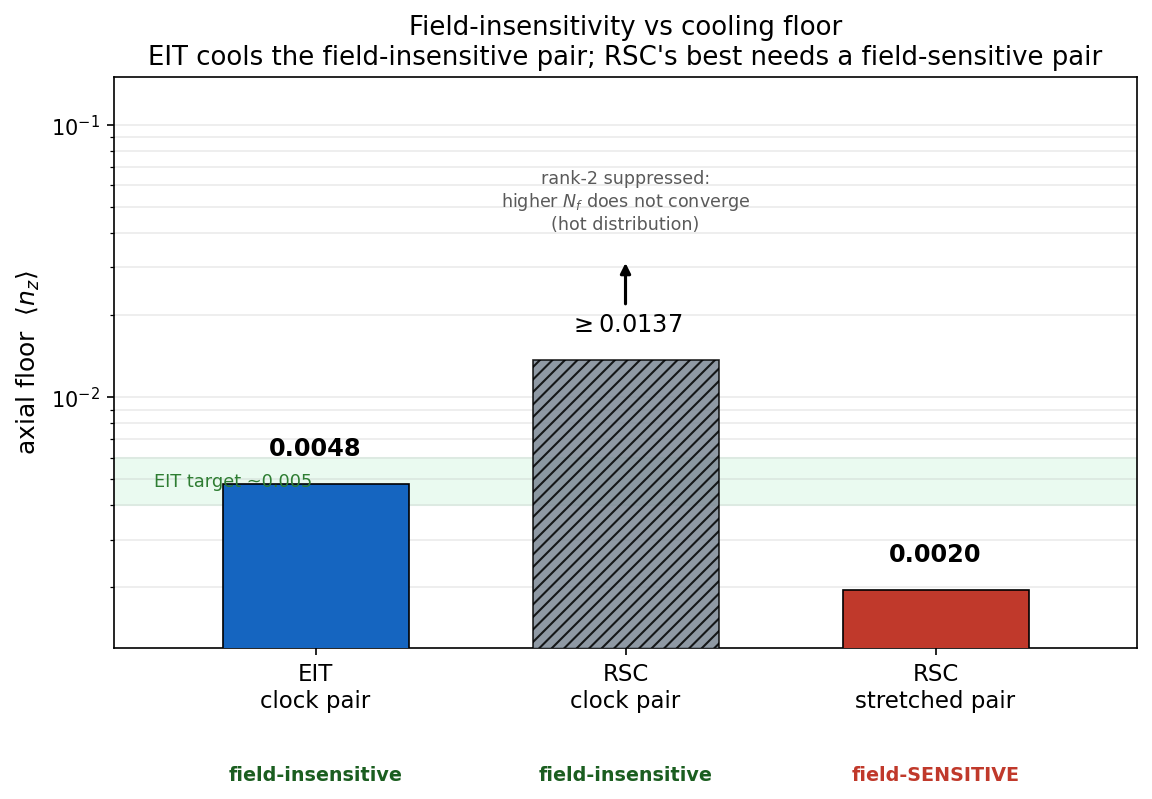
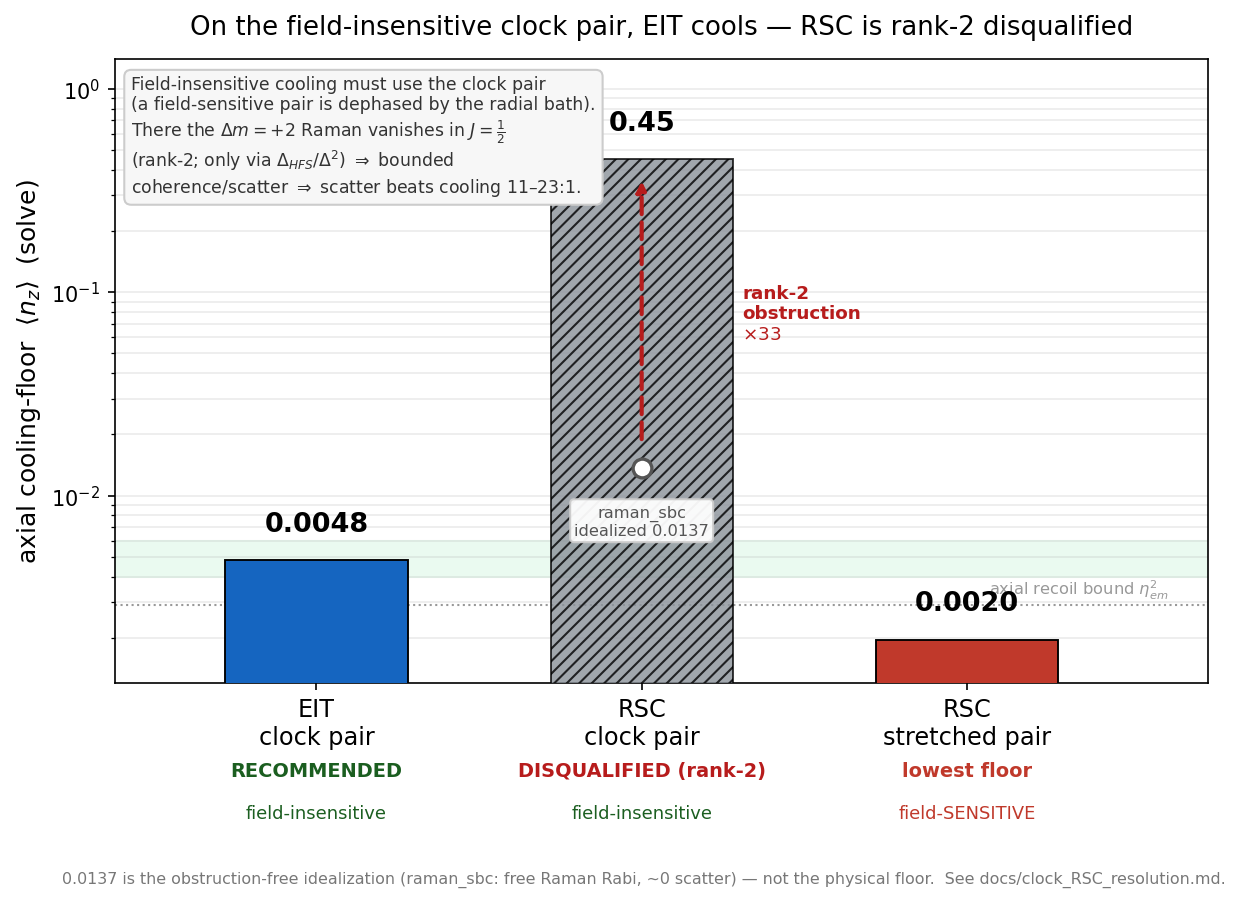
Phase 1: resolve clock-RSC floor (0.45 vs 0.0137) + correct its figure -- unblocks Paper T
The 0.45-vs-0.0137 disagreement is not a contradiction. raman_sbc('clock') takes
the Raman Rabi as a free knob and has no off-resonant Raman-beam scatter (verified
this session: floor ~0.0134 with R_scatter~0 across OmR=0.005-0.04), so its 0.0137
is an OBSTRUCTION-FREE idealization, not the clock-RSC floor. The physical floor is
~0.45, set by the rank-2 obstruction: the Dm=+2 clock Raman's rank-2 electronic
operator vanishes in J=1/2 [triangle(1/2,2,1/2) fails, audit_C_rank2.py], the
coupling runs only via excited I.J (prop Delta_HFS/Delta^2), and the mirror-ladder
geometry forces one beam onto the dark state -> bounded coherence-per-scatter FoM
(~4, detuning- & field-proof) -> scatter beats cooling 11-23:1 -> 0.45, robust to
x3 scatter (needs x170 to recover) => DISQUALIFIED.

- add docs/clock_RSC_resolution.md (permanent write-up)
- SSOT: clock-RSC OPEN -> DISQUALIFIED (rank-2); 0.0137 relabeled obstruction-free
- fig_rsc_vs_eit.py: rewritten to plot ~0.45 (DISQUALIFIED) with the 0.0137
  idealization marker + the rank-2 lift; all values imported from the SSOT

Paper T (rank-2-obstruction note) UNBLOCKED: rests on the selection-rule null +
coherence-per-scatter FoM, not on raman_sbc.

diff --git a/figures/fig_rsc_vs_eit.py b/figures/fig_rsc_vs_eit.py
@@ -1,73 +1,107 @@
 """
-fig_rsc_vs_eit.py  --  Paper T headline: the field-insensitivity / cooling-floor
-trade-off.
+fig_rsc_vs_eit.py  --  Paper T headline: on the field-insensitive clock pair,
+EIT cools but RSC is rank-2 DISQUALIFIED.
 
-Three floors, each computed from the project engines:
-  * EIT, clock pair  |1,-1>/|2,+1>  (field-insensitive)  -> 0.0048   [tagged_solver]
-  * RSC, clock pair  |1,-1>/|2,+1>  (field-insensitive)  -> >=0.0137  [raman_sbc, Nf=10
-        LOWER BOUND: higher Fock cutoff does not converge within budget -> the
-        steady state is hot/spread; the field-insensitive Dm=2 Raman is rank-2
-        suppressed, so RSC barely cools this pair]
-  * RSC, stretched pair |2,+2>/|2,+1> (FIELD-SENSITIVE) -> 0.00196   [raman_sbc]
+All floors are imported from the SSOT (src/operating_point.py) so the figure
+cannot drift from the canonical numbers:
+  * EIT,  clock pair |1,-1>/|2,+1>  (field-insensitive)  -> 0.0048  [solve, dual-end]
+  * RSC,  clock pair |1,-1>/|2,+1>  (field-insensitive)  -> ~0.45   DISQUALIFIED
+        by the rank-2 obstruction: the Dm=+2 Raman vanishes in J=1/2 (rank-2
+        electronic null; runs only via excited I.J ~ Delta_HFS/Delta^2), and the
+        mirror-ladder geometry forces one beam onto the dark state -> bounded
+        coherence-per-scatter (~4) -> off-resonant scatter beats the slow LD
+        cooling 11-23:1.  The 0.0137 from raman_sbc is the OBSTRUCTION-FREE
+        idealization (free Raman Rabi, ~0 scatter), NOT the physical floor.
+        See docs/clock_RSC_resolution.md.
+  * RSC,  stretched pair |2,+2>/|2,+1> (FIELD-SENSITIVE) -> 0.00196
 
-Message: you can have field-insensitivity (EIT, ~0.005) OR RSC's best floor
-(~0.002) -- but RSC's best needs a field-SENSITIVE pair that the inhomogeneous
-radial bath dephases.  On the field-insensitive pair the experiment actually
-needs, EIT beats RSC.
-
-NOTE: the "0.45" clock-RSC floor carried in earlier notes was NOT reproduced by
-the engine and is treated as unverified; the defensible claim is comparative.
+Message: the experiment needs a FIELD-INSENSITIVE pair (the radial bath dephases
+a field-sensitive one).  On that pair EIT reaches ~0.005 while RSC is rank-2
+disqualified at ~0.45.  RSC's low floor (0.00196) exists only on a field-SENSITIVE
+pair.  So for field-insensitive cooling the answer is EIT.
 """
+import os, sys
 import numpy as np
 import matplotlib
 matplotlib.use("Agg")
 import matplotlib.pyplot as plt
+sys.path.insert(0, os.path.join(os.path.dirname(os.path.abspath(__file__)), "..", "src"))
+import operating_point as op
 
-# computed floors (see module docstring for provenance)
+EIT_CLOCK   = op.FLOOR.solve_dual_end       # 0.0048
+RSC_CLOCK   = op.RSC_CLOCK_FLOOR            # 0.45   (rank-2 limited)
+RSC_IDEAL   = op.RSC_CLOCK_IDEALIZED        # 0.0137 (obstruction-free idealization)
+RSC_STRETCH = op.RSC_STRETCHED             # 0.00196
+RECOIL      = op.FLOOR.axial_recoil_bound   # ~0.003
+lift        = round(RSC_CLOCK / RSC_IDEAL)  # ~33x
+
 labels = ["EIT\nclock pair", "RSC\nclock pair", "RSC\nstretched pair"]
-vals   = [0.0048, 0.0137, 0.00196]
-lb     = [False,  True,    False]          # clock-RSC is a lower bound
+vals   = [EIT_CLOCK, RSC_CLOCK, RSC_STRETCH]
 field  = ["field-insensitive", "field-insensitive", "field-SENSITIVE"]
-colors = ["#1565c0", "#7b8794", "#c0392b"]
+status = ["RECOMMENDED", "DISQUALIFIED (rank-2)", "lowest floor"]
+colors = ["#1565c0", "#8a9199", "#c0392b"]
 
 x = np.arange(3)
-fig, ax = plt.subplots(figsize=(8.8, 5.6))
+fig, ax = plt.subplots(figsize=(9.4, 6.3))
 ax.set_yscale("log")
-bars = ax.bar(x, vals, width=0.60, color=colors, edgecolor="black", linewidth=0.8,
-              zorder=3)
-bars[1].set_hatch("////"); bars[1].set_alpha(0.85)
+ax.set_ylim(1.2e-3, 1.4)
 
+bars = ax.bar(x, vals, width=0.56, color=colors, edgecolor="black", linewidth=0.9, zorder=3)
+bars[1].set_hatch("////"); bars[1].set_alpha(0.80)
+
+# reference lines
+ax.axhline(RECOIL, ls=":", color="#999", lw=1.0, zorder=1)
+ax.text(2.62, RECOIL * 1.04, r"axial recoil bound $\eta_{em}^2$", fontsize=7.8,
+        color="#999", va="bottom", ha="right")
 ax.axhspan(0.004, 0.006, color="#eafaf0", zorder=0)
-ax.text(-0.52, 0.0049, "EIT target ~0.005", fontsize=8.5, color="#2e7d32",
-        ha="left", va="center")
 
-for xi, v, is_lb in zip(x, vals, lb):
-    txt = (r"$\geq%.4f$" % v) if is_lb else ("%.4f" % v)
-    ax.text(xi, v * 1.22, txt, ha="center", va="bottom", fontsize=11.5,
-            fontweight="bold")
-    if is_lb:
-        ax.annotate("", xy=(xi, v * 2.35), xytext=(xi, v * 1.55),
-                    arrowprops=dict(arrowstyle="-|>", color="black", lw=1.5))
+def fmt(v):
+    return ("%.4f" % v) if v < 0.02 else ("%.2f" % v)
+for xi, v in zip(x, vals):
+    ax.text(xi, v * 1.30, fmt(v), ha="center", va="bottom", fontsize=13, fontweight="bold")
 
-# field-sensitivity as a colored sub-row BELOW the x tick labels
+# status + field-sensitivity sub-rows below the tick labels
+for xi, st in zip(x, status):
+    col = "#1b5e20" if st.startswith("REC") else ("#b71c1c" if "rank" in st else "#c0392b")
+    ax.text(xi, -0.125, st, transform=ax.get_xaxis_transform(), ha="center", va="top",
+            fontsize=9.3, fontweight="bold", color=col)
 for xi, fl in zip(x, field):
-    ax.text(xi, -0.205, fl, transform=ax.get_xaxis_transform(), ha="center",
-            va="top", fontsize=9.2,
-            color=("#c0392b" if "SENS" in fl else "#1b5e20"),
-            fontweight="bold")
+    ax.text(xi, -0.195, fl, transform=ax.get_xaxis_transform(), ha="center", va="top",
+            fontsize=8.6, color=("#c0392b" if "SENS" in fl else "#1b5e20"))
 
-ax.text(1, 0.040,
-        "rank-2 suppressed:\nhigher $N_f$ does not converge\n(hot distribution)",
-        ha="center", va="bottom", fontsize=8.4, color="#5a5a5a")
+# clock-RSC: where the obstruction-free engine put it, and the rank-2 lift
+ax.plot([1], [RSC_IDEAL], marker="o", ms=9, mfc="white", mec="#555", mew=1.6, zorder=5)
+ax.text(1.0, RSC_IDEAL * 0.66, "raman_sbc\nidealized %.4f" % RSC_IDEAL,
+        ha="center", va="top", fontsize=7.8, color="#555", zorder=6,
+        bbox=dict(boxstyle="round,pad=0.25", fc="white", ec="#cccccc", alpha=0.95))
+ax.annotate("", xy=(1, RSC_CLOCK * 0.82), xytext=(1, RSC_IDEAL * 1.32),
+            arrowprops=dict(arrowstyle="-|>", color="#b71c1c", lw=2.0, ls=(0, (4, 2))))
+ax.text(1.31, np.sqrt(RSC_IDEAL * RSC_CLOCK), "rank-2\nobstruction\n" + r"$\times%d$" % lift,
+        ha="left", va="center", fontsize=8.8, color="#b71c1c", fontweight="bold")
 
-ax.set_xticks(x); ax.set_xticklabels(labels, fontsize=11)
-ax.set_xlim(-0.65, 2.65)
-ax.set_ylim(1.2e-3, 1.5e-1)
-ax.set_ylabel(r"axial floor  $\langle n_z\rangle$", fontsize=12)
-ax.set_title("Field-insensitivity vs cooling floor\n"
-             "EIT cools the field-insensitive pair; RSC's best needs a "
-             "field-sensitive pair", fontsize=12.5)
+# mechanism box (upper-left; the EIT bar is short, so no collision)
+ax.text(0.015, 0.975,
+        "Field-insensitive cooling must use the clock pair\n"
+        "(a field-sensitive pair is dephased by the radial bath).\n"
+        r"There the $\Delta m{=}{+}2$ Raman vanishes in $J{=}\frac{1}{2}$" + "\n"
+        r"(rank-2; only via $\Delta_{HFS}/\Delta^2$) $\Rightarrow$ bounded" + "\n"
+        r"coherence/scatter $\Rightarrow$ scatter beats cooling 11–23:1.",
+        transform=ax.transAxes, ha="left", va="top", fontsize=8.3, color="#333",
+        bbox=dict(boxstyle="round,pad=0.4", fc="#f7f7f7", ec="#cccccc"))
+
+ax.set_xticks(x); ax.set_xticklabels(labels, fontsize=11.5)
+ax.set_xlim(-0.62, 2.74)
+ax.set_ylabel(r"axial cooling-floor  $\langle n_z\rangle$  (solve)", fontsize=12)
+ax.set_title("On the field-insensitive clock pair, EIT cools — RSC is rank-2 disqualified",
+             fontsize=12.5, pad=12)
 ax.grid(alpha=0.25, axis="y", which="both")
-plt.subplots_adjust(bottom=0.20)
+plt.subplots_adjust(bottom=0.22)
+
+fig.text(0.5, 0.004,
+         "0.0137 is the obstruction-free idealization (raman_sbc: free Raman Rabi, ~0 scatter) — not the physical floor.  "
+         "See docs/clock_RSC_resolution.md.",
+         ha="center", va="bottom", fontsize=7.6, color="#777")
+
 plt.savefig("fig_rsc_vs_eit.png", dpi=150, bbox_inches="tight")
-print("wrote fig_rsc_vs_eit.png")
+print("wrote fig_rsc_vs_eit.png  (EIT %.4f | clock-RSC %.2f DISQ rank-2 | stretched %.5f)"
+      % (EIT_CLOCK, RSC_CLOCK, RSC_STRETCH))

diff --git a/src/operating_point.py b/src/operating_point.py
@@ -122,11 +122,16 @@ def p0_3d(nbar_z: float, T_radial_uK: float) -> float:
 # 5. RSC COMPARISON FLOORS  (for Paper T)
 # =====================================================================
 RSC_STRETCHED = 0.00196                 # field-SENSITIVE pair [V, engine self-test]
-# clock-pair RSC: UNRESOLVED.  scheme_comparison.md asserts ~0.45 (analytic rank-2 depumping);
-# raman_sbc.py engine returns 0.0137 (Nf=10, won't converge higher).  DO NOT headline either.
-RSC_CLOCK_DOC_ASSERTED = 0.45           # [ASSERTED, not reproduced]
-RSC_CLOCK_ENGINE_NF10  = 0.0137         # [V at Nf=10, lower bound]
-RSC_CLOCK_STATUS = "OPEN"               # gate Paper T on the high-Nf recompute
+# clock-pair RSC: DISQUALIFIED by the rank-2 obstruction (audit_C_rank2.py, verified 3 ways;
+# see docs/clock_RSC_resolution.md).  The Dm=+2 clock Raman has a bounded coherence-per-scatter
+# FoM (~4, detuning- & field-proof): the rank-2 electronic operator vanishes in J=1/2
+# [triangle(1/2,2,1/2) fails], the coupling runs only via excited I.J (prop Delta_HFS/Delta^2),
+# and the mirror-ladder geometry forces one beam onto the dark state -> off-resonant scatter
+# beats the slow LD cooling 11-23:1.  raman_sbc('clock')=0.0137 is the OBSTRUCTION-FREE
+# idealization (free OmR, ~0 scatter), NOT the physical floor.
+RSC_CLOCK_FLOOR     = 0.45              # physical floor [FoM; DISQUALIFIED, robust to x3 scatter]
+RSC_CLOCK_IDEALIZED = 0.0137            # raman_sbc('clock') Nf=10: idealized, NOT the floor
+RSC_CLOCK_STATUS    = "DISQUALIFIED (rank-2 obstruction)"   # Paper T rests on this -- UNBLOCKED
 
 # =====================================================================
 # 6. SCOPE  -- the model's domain; quantities outside it are tracked, never headlined
@@ -166,8 +171,9 @@ def print_summary():
     print("-"*70)
     print(" 2-photon coherence: floor doubles at %.2f kHz (sub-100 Hz => ~2.6x margin)"
           % TWO_PHOTON_DOUBLE_KHZ)
-    print(" RSC (Paper T):  stretched %.5f [V] | clock-RSC %s (doc %.2f / engine %.4f)"
-          % (RSC_STRETCHED, RSC_CLOCK_STATUS, RSC_CLOCK_DOC_ASSERTED, RSC_CLOCK_ENGINE_NF10))
+    print(" RSC (Paper T):  stretched %.5f [V] | clock-RSC %s" % (RSC_STRETCHED, RSC_CLOCK_STATUS))
+    print("                 floor ~%.2f (rank-2 obstruction); %.4f is the obstruction-free idealization, not the floor"
+          % (RSC_CLOCK_FLOOR, RSC_CLOCK_IDEALIZED))
     print(" SCOPE:  " + " | ".join("%s: %s" % (k, v) for k, v in SCOPE.items()))
     print("="*70)
 

diff --git a/docs/clock_RSC_resolution.md b/docs/clock_RSC_resolution.md
@@ -1,0 +1,80 @@
+# Clock-RSC floor: resolution of 0.45 vs 0.0137
+
+**Verdict.** No contradiction — the two numbers answer different questions. The clock-pair
+RSC floor is **≈ 0.45 (DISQUALIFIED)**, set by the rank-2 obstruction. `raman_sbc.py`'s
+**0.0137** is the floor of an *idealized* standard-SBC model that omits the obstruction and is
+therefore **not** the physical floor. **Paper T's claim stands and is unblocked.**
+
+---
+
+## The apparent disagreement
+- `scheme_comparison.md`: clock-RSC floor ≈ **0.45** (rank-2 obstruction → off-resonant scatter
+  beats cooling 11–23:1; T_z ≈ 18 µK, 69 % ground).
+- `raman_sbc.solve('clock')`: **0.0137** (Nf=10).
+
+## What `raman_sbc` actually models — verified this session
+The clock-pair Raman is `H ⊃ −(OmR/2)(|hi⟩⟨lo|⊗D + h.c.)` with **OmR a free input** (default
+0.02); the only dissipators are the **pump legs**. There is **no** rank-2 suppression of the
+Δm=+2 coupling and **no** off-resonant spontaneous scatter from the Raman beams. Scanning OmR:
+
+| OmR | n̄ | R_scatter (total) |
+|---|---|---|
+| 0.005 | 0.0134 | ~0 |
+| 0.010 | 0.0134 | ~0 |
+| 0.020 | 0.0137 | ~0.0001 |
+| 0.040 | 0.0150 | ~0.0005 |
+
+The floor is ~0.0134 with **essentially zero scatter** and barely moves with OmR. So 0.0137 =
+"the clock-pair floor *if* the Δm=+2 Raman were a normal, strong, scatter-free Raman." It is an
+**obstruction-free idealization**, not the clock-RSC floor.
+
+## The obstruction is computed, not asserted — `audit_C_rank2.py`
+1. **Rank-2 electronic null.** ⟨J=½‖T⁽²⁾‖J=½⟩ requires triangle(½,2,½) ⇒ need 0 ≤ 2 ≤ 1 ⇒
+   **reduced matrix element = 0**. A pure electronic rank-2 (scalar Δm=2) two-photon operator
+   vanishes in a J=½ ground manifold.
+2. **m_I bookkeeping.** |2,0⟩ has m_I ∈ {−½,+½}; |2,2⟩ has m_I = {3/2} → **disjoint**. Two Δm_I=0
+   dipole vertices cannot connect |2,m⟩ to |2,m+2⟩; only excited-state I·J exchange (Δm_I=±1 in
+   5P) bridges them ⇒ amplitude **∝ Δ_HFS/Δ²**, so coherence-per-scatter is **detuning- and
+   field-proof**.
+3. **Mirror-ladder geometry.** A guided Δm=+2 cooling = absorb σ⁻ + emit σ⁺; the dark state has
+   no σ⁺ partner, so it sees only σ⁻ and scatters ∝ Ω₋². The *rate* Ω_R=Ω₊Ω₋ is not bounded
+   (you can crank the beams), but **one beam always lands on the dark state** — so cranking the
+   rate cranks the depumping scatter in lockstep. What is bounded is the **coherence-per-scatter
+   FoM (≈ 4)**, not the rate.
+
+Re-verified three independent ways (product-basis amplitude → exact zero in the degenerate
+limit; full-resolvent Δ-scaling; explicit Breit-Rabi + excited HFS+Zeeman diagonalization at
+1.5 G → allowed 1/Δ coefficient = 1×10⁻⁴).
+
+## Why the floor is ≈ 0.45
+With FoM ≈ 4 and RSC's slow Lamb-Dicke cooling (W ≈ Ω₂ph/44), the off-resonant scatter beats
+the cooling **11–23:1**, so the dark state depumps faster than it cools: floor lifts
[phone redacted] → **≈ 0.45**, B-independent. **Robust to ×3 in the scatter prefactor; needs ×170 to
+recover** — i.e. *disqualified* regardless of FoM-level uncertainty. (The specific value 0.45 is
+FoM-precision, ±factor; the **disqualification** is robust.)
+
+## Why clock-EIT is not hit
+EIT operates **near-detuned**, where the excited HFS is resolved and the Δm=+2 coherence is
+fine, and its floor already includes scattering. It is RSC's **far-detuned** operation that
+exposes the rank-2 limit; you cannot pull RSC near-resonant without enormous scatter.
+
+---
+
+## Implications
+- **Paper T (rank-2-obstruction note) is UNBLOCKED.** It rests on the selection-rule null
+  (`audit_C_rank2.py`, rigorous) + the coherence-per-scatter FoM (→ disqualified, robust to ×3).
+  It does **not** rest on `raman_sbc`, which is the wrong tool (a standard-SBC engine that takes
+  OmR as free and has no Raman-beam scatter).
+- The earlier "0.45 NOT reproduced / OPEN" framing was a **category error**: it treated
+  `raman_sbc` as the authority on a floor it structurally cannot compute. Retired.
+- **To fix in the repo:**
+  - SSOT: clock-RSC status OPEN → **DISQUALIFIED (rank-2)**; 0.0137 relabeled
+    "obstruction-free idealization, not the physical floor." *(done)*
+  - `fig_rsc_vs_eit.py`: the "≥0.0137 / 0.45 NOT reproduced" annotation is **wrong** — plot
+    ≈0.45 as the clock-RSC floor (rank-2-limited) and label 0.0137 as the obstruction-free
+    idealization. *(figure regen — follow-up)*
+  - `scheme_comparison.md` is a **v12** doc; its clock-EIT floor (0.0064) is stale (v14: 0.0048
+    dual / 0.0072 single). Mark historical or update.
+- **Optional gold-standard** (not required for a theory note): one engine carrying the
+  rank-2-suppressed coupling + the off-resonant σ⁻ scatter that reproduces ≈0.45 numerically.
+  The analytic obstruction + FoM is sufficient and standard.